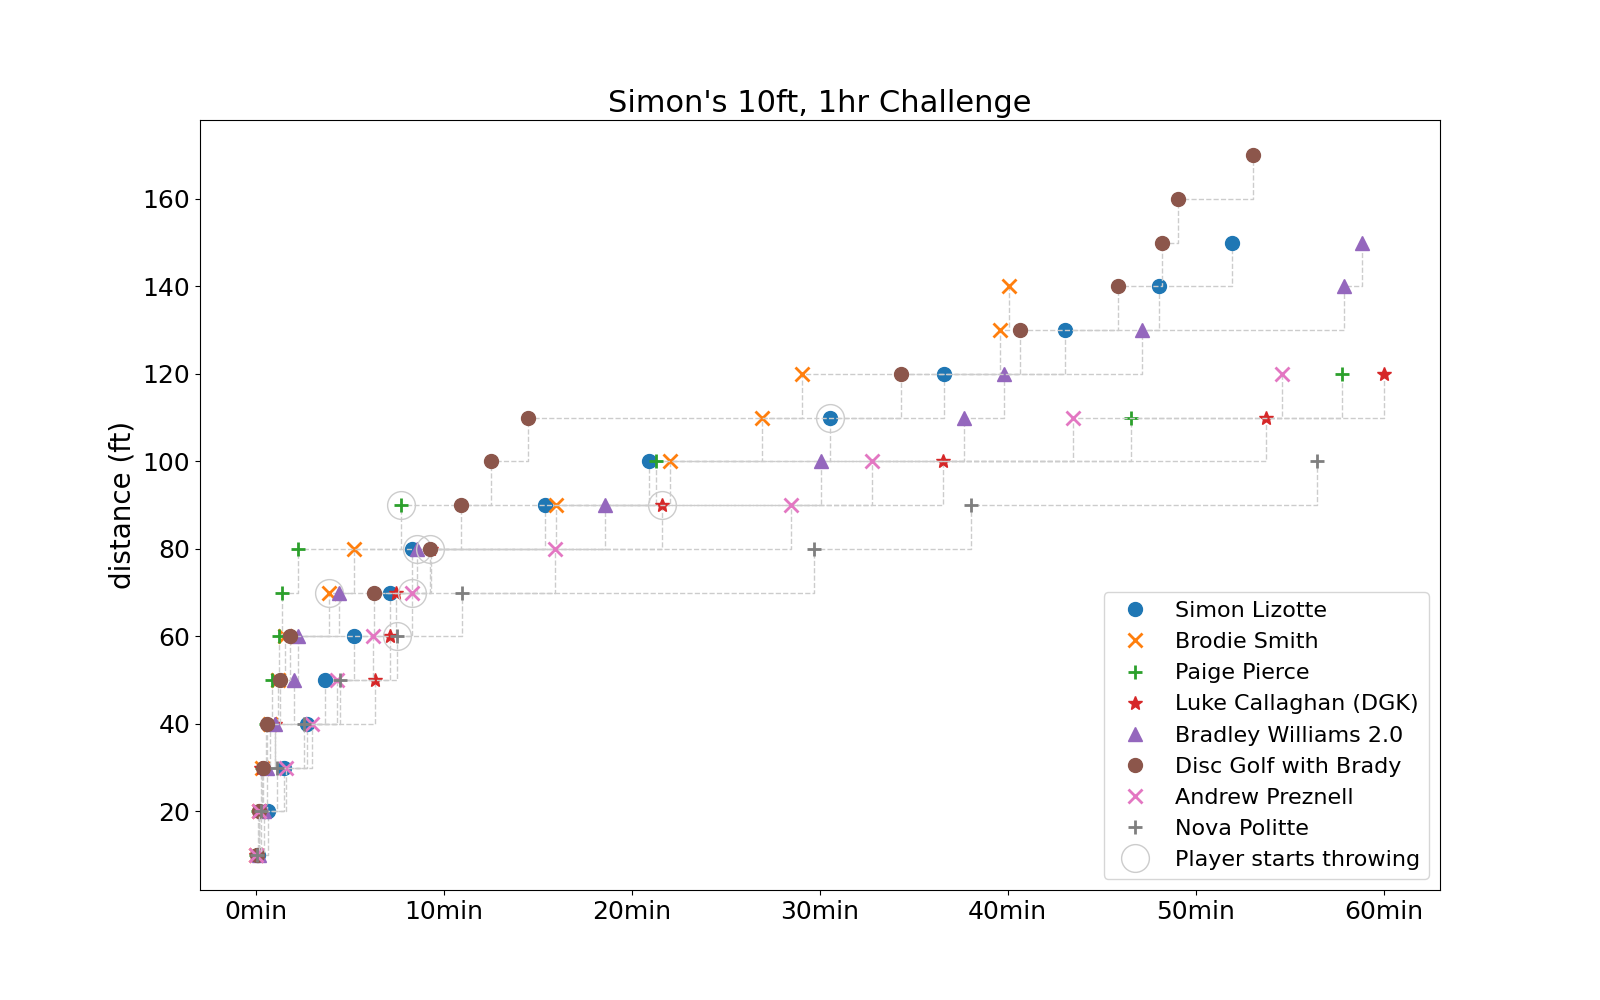
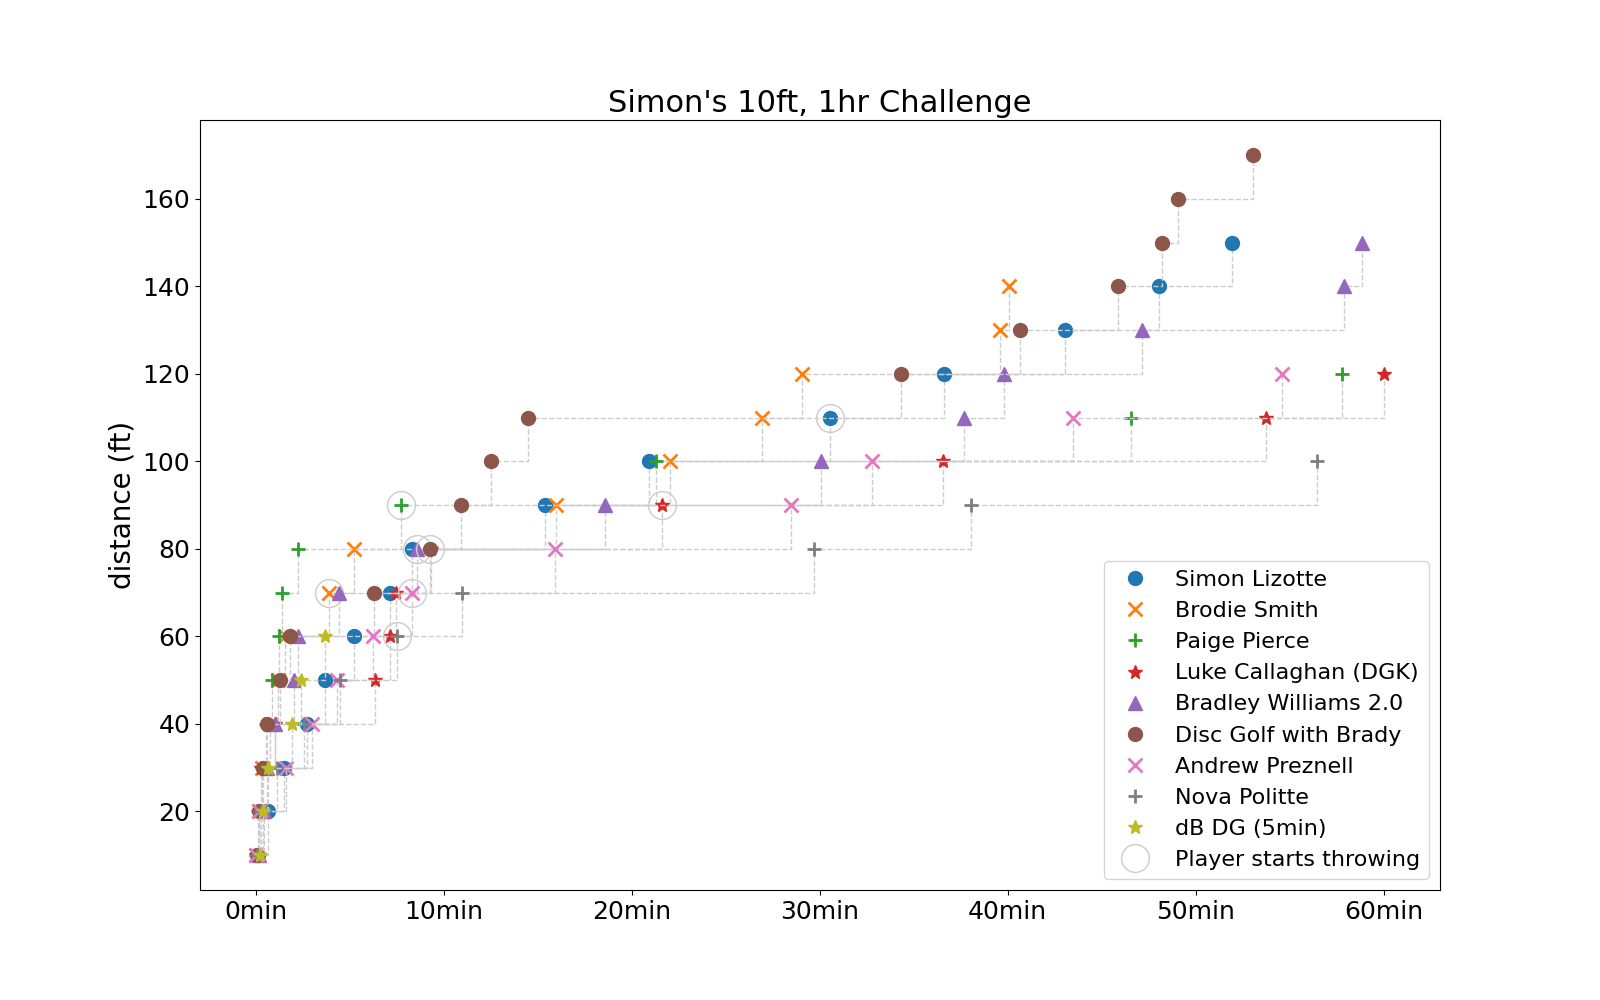
add DB DG (5min challenge and never throws)

Changed region(s): [[0.6875, 0.558, 0.875, 0.837]]

diff --git a/plot.py b/plot.py
@@ -24,7 +24,10 @@ class Player(object):
         """Parse a CSV row."""
         entities = csv_row.split(",")
         self.name = entities[0]
-        self.starts_throwing_at = int(entities[1])
+        if entities[1] != "":
+            self.starts_throwing_at = int(entities[1])
+        else:
+            self.starts_throwing_at = None
         # Parse the timing data.  Each value is of the form "59:54" or "44:01" which is
         # how much time is *remaining* when they made the shot.  We'll invert that to be
         # the time that had elapsed.
@@ -77,19 +80,20 @@ for player in players:
         where="post",
     )
     # Circle the transition from putting -> throwing.
-    index = player.distances.index(player.starts_throwing_at)
-    axis.step(
-        player.times[index],
-        player.starts_throwing_at,
-        marker="o",
-        label=None,
-        linewidth=1,
-        markersize=20,
-        markeredgewidth=1,
-        fillstyle='none',
-        color="#cccccc",
-        where="post",
-    )
+    if player.starts_throwing_at:
+        index = player.distances.index(player.starts_throwing_at)
+        axis.step(
+            player.times[index],
+            player.starts_throwing_at,
+            marker="o",
+            label=None,
+            linewidth=1,
+            markersize=20,
+            markeredgewidth=1,
+            fillstyle='none',
+            color="#cccccc",
+            where="post",
+        )
 
 # "Plot" one more entry as a hack to update the legend with some explanatory text.
 axis.step(

diff --git a/readme.md b/readme.md
@@ -11,7 +11,7 @@ plotting makes from the "10ft - 1hr Challenges" (spoilers!)
 * Disc Golf with Brady (/u/theexistentialfox): https://www.youtube.com/watch?v=qYkntxIMUwk
 * Andrew Preznell: https://www.youtube.com/watch?v=eb_2HcXgRrg
 * Nova Politte: https://www.youtube.com/watch?v=BdFUVFXWQw8
-* TODO: dB Disc Golf (5min challenge): https://www.youtube.com/watch?v=1sXnG6kfMoE
+* dB Disc Golf (5min challenge): https://www.youtube.com/watch?v=1sXnG6kfMoE
 
 
 ### Videos *without* timing info
